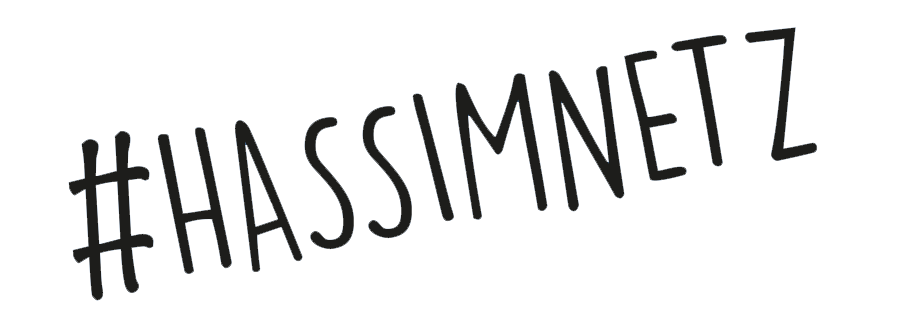
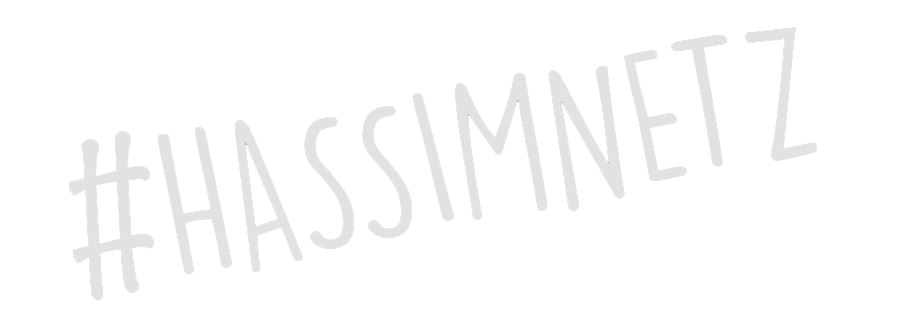
white and black font  tips, slower moves knowledg

Changed region(s): [[0.061, 0.0917, 0.915, 0.9174]]

diff --git a/src/App.css b/src/App.css
@@ -737,7 +737,6 @@ div {
   position: absolute;
   top: 10px;
   left: 0px;
-  filter: invert(100%) contrast(1.75);
 }
 
 .explanation {
@@ -753,7 +752,6 @@ div {
   font-weight: bold;
   src: local('DroidSans'), url('./media/fonts/DroidSans-Bold.ttf');
   line-height: 40px;
-  color: rgb(254, 247, 237);
   overflow: hidden; /* Hide scrollbars */
   -webkit-user-select: none; /* Safari */
   -ms-user-select: none; /* IE 10 and IE 11 */
@@ -855,38 +853,47 @@ div {
 
 .ABLEISMUS {
 background-color: rgb(166, 204, 198);
+color: rgb(254, 247, 237);
 }
 
 .DEMOKRATIEFEINDLICH {
   background-color: rgb(93, 88, 146);
+  color: rgb(254, 247, 237);
 }
 
 .DISKRIMINIERUNG {
   background-color: rgb(251, 190, 93);
+  color: rgb(254, 247, 237);
 }
 
 .HASSIMNETZ {
   background-color: rgb(82, 136, 198);
+  color: rgb(254, 247, 237);
 }
 
 .QUEERFEINDLICH {
 background-color: rgb(238, 115, 48);
+color: rgb(254, 247, 237);
 }
 
 .RADIKALISIERUNG {
   background-color: rgb(82, 136, 198);
+  color: rgb(254, 247, 237);
 }
 
 .RECHTEGEWALT {
   background-color: rgb(96, 190, 175);
+  color: rgb(254, 247, 237);
 }
 
 .SEXISMUS {
   background-color: rgb(234, 80, 83);
+  color: rgb(254, 247, 237);
 }
 
 .SOZIALEAUSGRENZUNG {
-  background-color: rgb(54, 162, 43);
+  background-color: rgb(255, 239, 24);
+  color: rgb(0, 0, 0);
 }
 
 
@@ -1085,7 +1092,7 @@ background-color: rgb(238, 115, 48);
 .line0{
   position: relative;
   animation-name: swingLines0;
-  animation-duration: 35s;
+  animation-duration: 55s;
   animation-iteration-count: infinite;
 }
 
@@ -1097,7 +1104,7 @@ background-color: rgb(238, 115, 48);
 .line1{
   position: relative;
   animation-name: swingLines1;
-  animation-duration: 35s;
+  animation-duration: 55s;
   animation-iteration-count: infinite;
 }
 
@@ -1109,7 +1116,7 @@ background-color: rgb(238, 115, 48);
 .line2{
   position: relative;
   animation-name: swingLines1;
-  animation-duration: 35s;
+  animation-duration: 55s;
   animation-iteration-count: infinite;
 }
 
@@ -1121,7 +1128,7 @@ background-color: rgb(238, 115, 48);
 .line3{
   position: relative;
   animation-name: swingLines3;
-  animation-duration: 20s;
+  animation-duration: 40s;
   animation-iteration-count: infinite;
 }
 
@@ -1133,7 +1140,7 @@ background-color: rgb(238, 115, 48);
 .line4{
   position: relative;
   animation-name: swingLines4;
-  animation-duration: 20s;
+  animation-duration: 40s;
   animation-iteration-count: infinite;
 }
 
@@ -1145,7 +1152,7 @@ background-color: rgb(238, 115, 48);
 .line5{
   position: relative;
   animation-name: swingLines5;
-  animation-duration: 20s;
+  animation-duration: 40s;
   animation-iteration-count: infinite;
 }
 
@@ -1157,7 +1164,7 @@ background-color: rgb(238, 115, 48);
 .line6{
   position: relative;
   animation-name: swingLines6;
-  animation-duration: 38s;
+  animation-duration: 58s;
   animation-iteration-count: infinite;
 }
 
@@ -1169,7 +1176,7 @@ background-color: rgb(238, 115, 48);
 .line7{
   position: relative;
   animation-name: swingLines7;
-  animation-duration: 38s;
+  animation-duration: 58s;
   animation-iteration-count: infinite;
 }
 
@@ -1181,7 +1188,7 @@ background-color: rgb(238, 115, 48);
 .line8{
   position: relative;
   animation-name: swingLines8;
-  animation-duration: 16s;
+  animation-duration: 36s;
   animation-iteration-count: infinite;
 }
 
@@ -1193,7 +1200,7 @@ background-color: rgb(238, 115, 48);
 .line9{
   position: relative;
   animation-name: swingLines9;
-  animation-duration: 16s;
+  animation-duration: 36s;
   animation-iteration-count: infinite;
 }
 
@@ -1205,7 +1212,7 @@ background-color: rgb(238, 115, 48);
 .line10{
   position: relative;
   animation-name: swingLines10;
-  animation-duration: 58s;
+  animation-duration: 78s;
   animation-iteration-count: infinite;
 }
 
@@ -1217,7 +1224,7 @@ background-color: rgb(238, 115, 48);
 .line11{
   position: relative;
   animation-name: swingLines11;
-  animation-duration: 58s;
+  animation-duration: 78s;
   animation-iteration-count: infinite;
 }
 
@@ -1229,7 +1236,7 @@ background-color: rgb(238, 115, 48);
 .line12{
   position: relative;
   animation-name: swingLines12;
-  animation-duration: 20s;
+  animation-duration: 40s;
   animation-iteration-count: infinite;
 }
 
@@ -1241,7 +1248,7 @@ background-color: rgb(238, 115, 48);
 .line13{
   position: relative;
   animation-name: swingLines13;
-  animation-duration: 20s;
+  animation-duration: 40s;
   animation-iteration-count: infinite;
 }
 
@@ -1253,7 +1260,7 @@ background-color: rgb(238, 115, 48);
 .line14{
   position: relative;
   animation-name: swingLines14;
-  animation-duration: 40s;
+  animation-duration: 60s;
   animation-iteration-count: infinite;
 }
 
@@ -1265,7 +1272,7 @@ background-color: rgb(238, 115, 48);
 .line15{
   position: relative;
   animation-name: swingLines15;
-  animation-duration: 20s;
+  animation-duration: 60s;
   animation-iteration-count: infinite;
 }
 @keyframes swingLines16 { 
@@ -1276,7 +1283,7 @@ background-color: rgb(238, 115, 48);
 .line16{
   position: relative;
   animation-name: swingLines16;
-  animation-duration: 20s;
+  animation-duration: 60s;
   animation-iteration-count: infinite;
 }
 
@@ -1288,7 +1295,7 @@ background-color: rgb(238, 115, 48);
 .line17{
   position: relative;
   animation-name: swingLines17;
-  animation-duration: 20s;
+  animation-duration: 50s;
   animation-iteration-count: infinite;
 }
 
@@ -1300,7 +1307,7 @@ background-color: rgb(238, 115, 48);
 .line18{
   position: relative;
   animation-name: swingLines18;
-  animation-duration: 20s;
+  animation-duration: 50s;
   animation-iteration-count: infinite;
 }
 
@@ -1312,7 +1319,7 @@ background-color: rgb(238, 115, 48);
 .line19{
   position: relative;
   animation-name: swingLines19;
-  animation-duration: 25s;
+  animation-duration: 45s;
   animation-iteration-count: infinite;
 }
 
